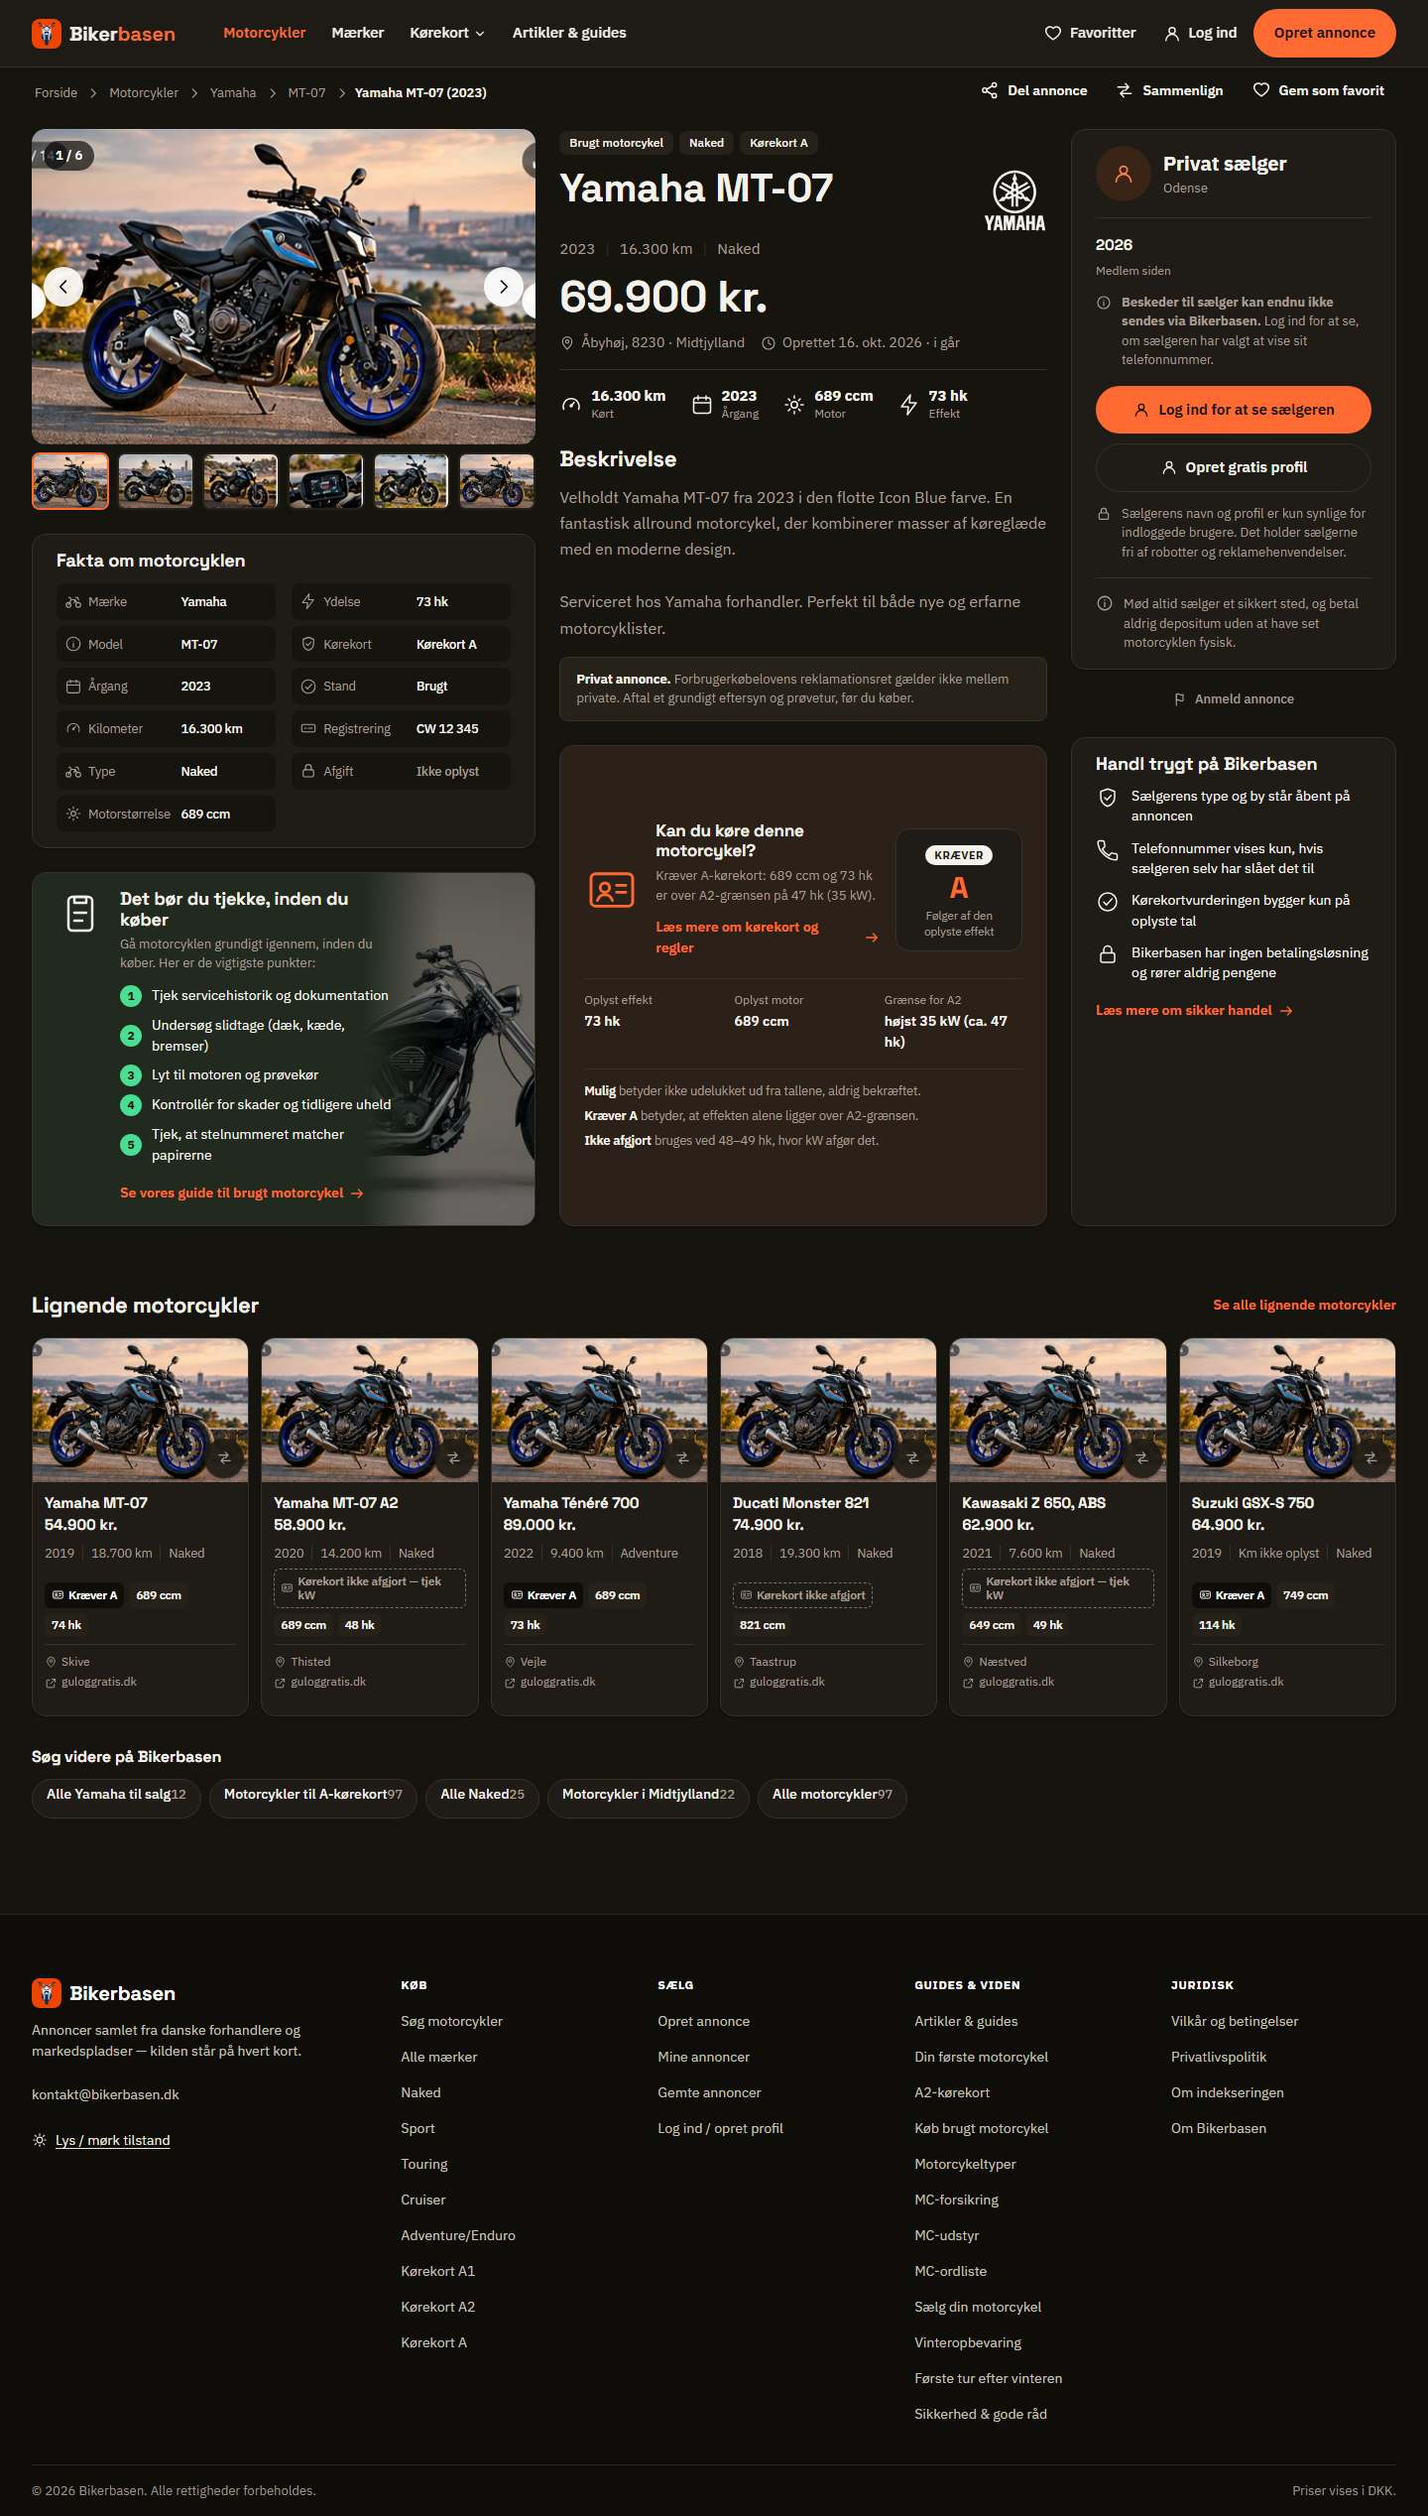
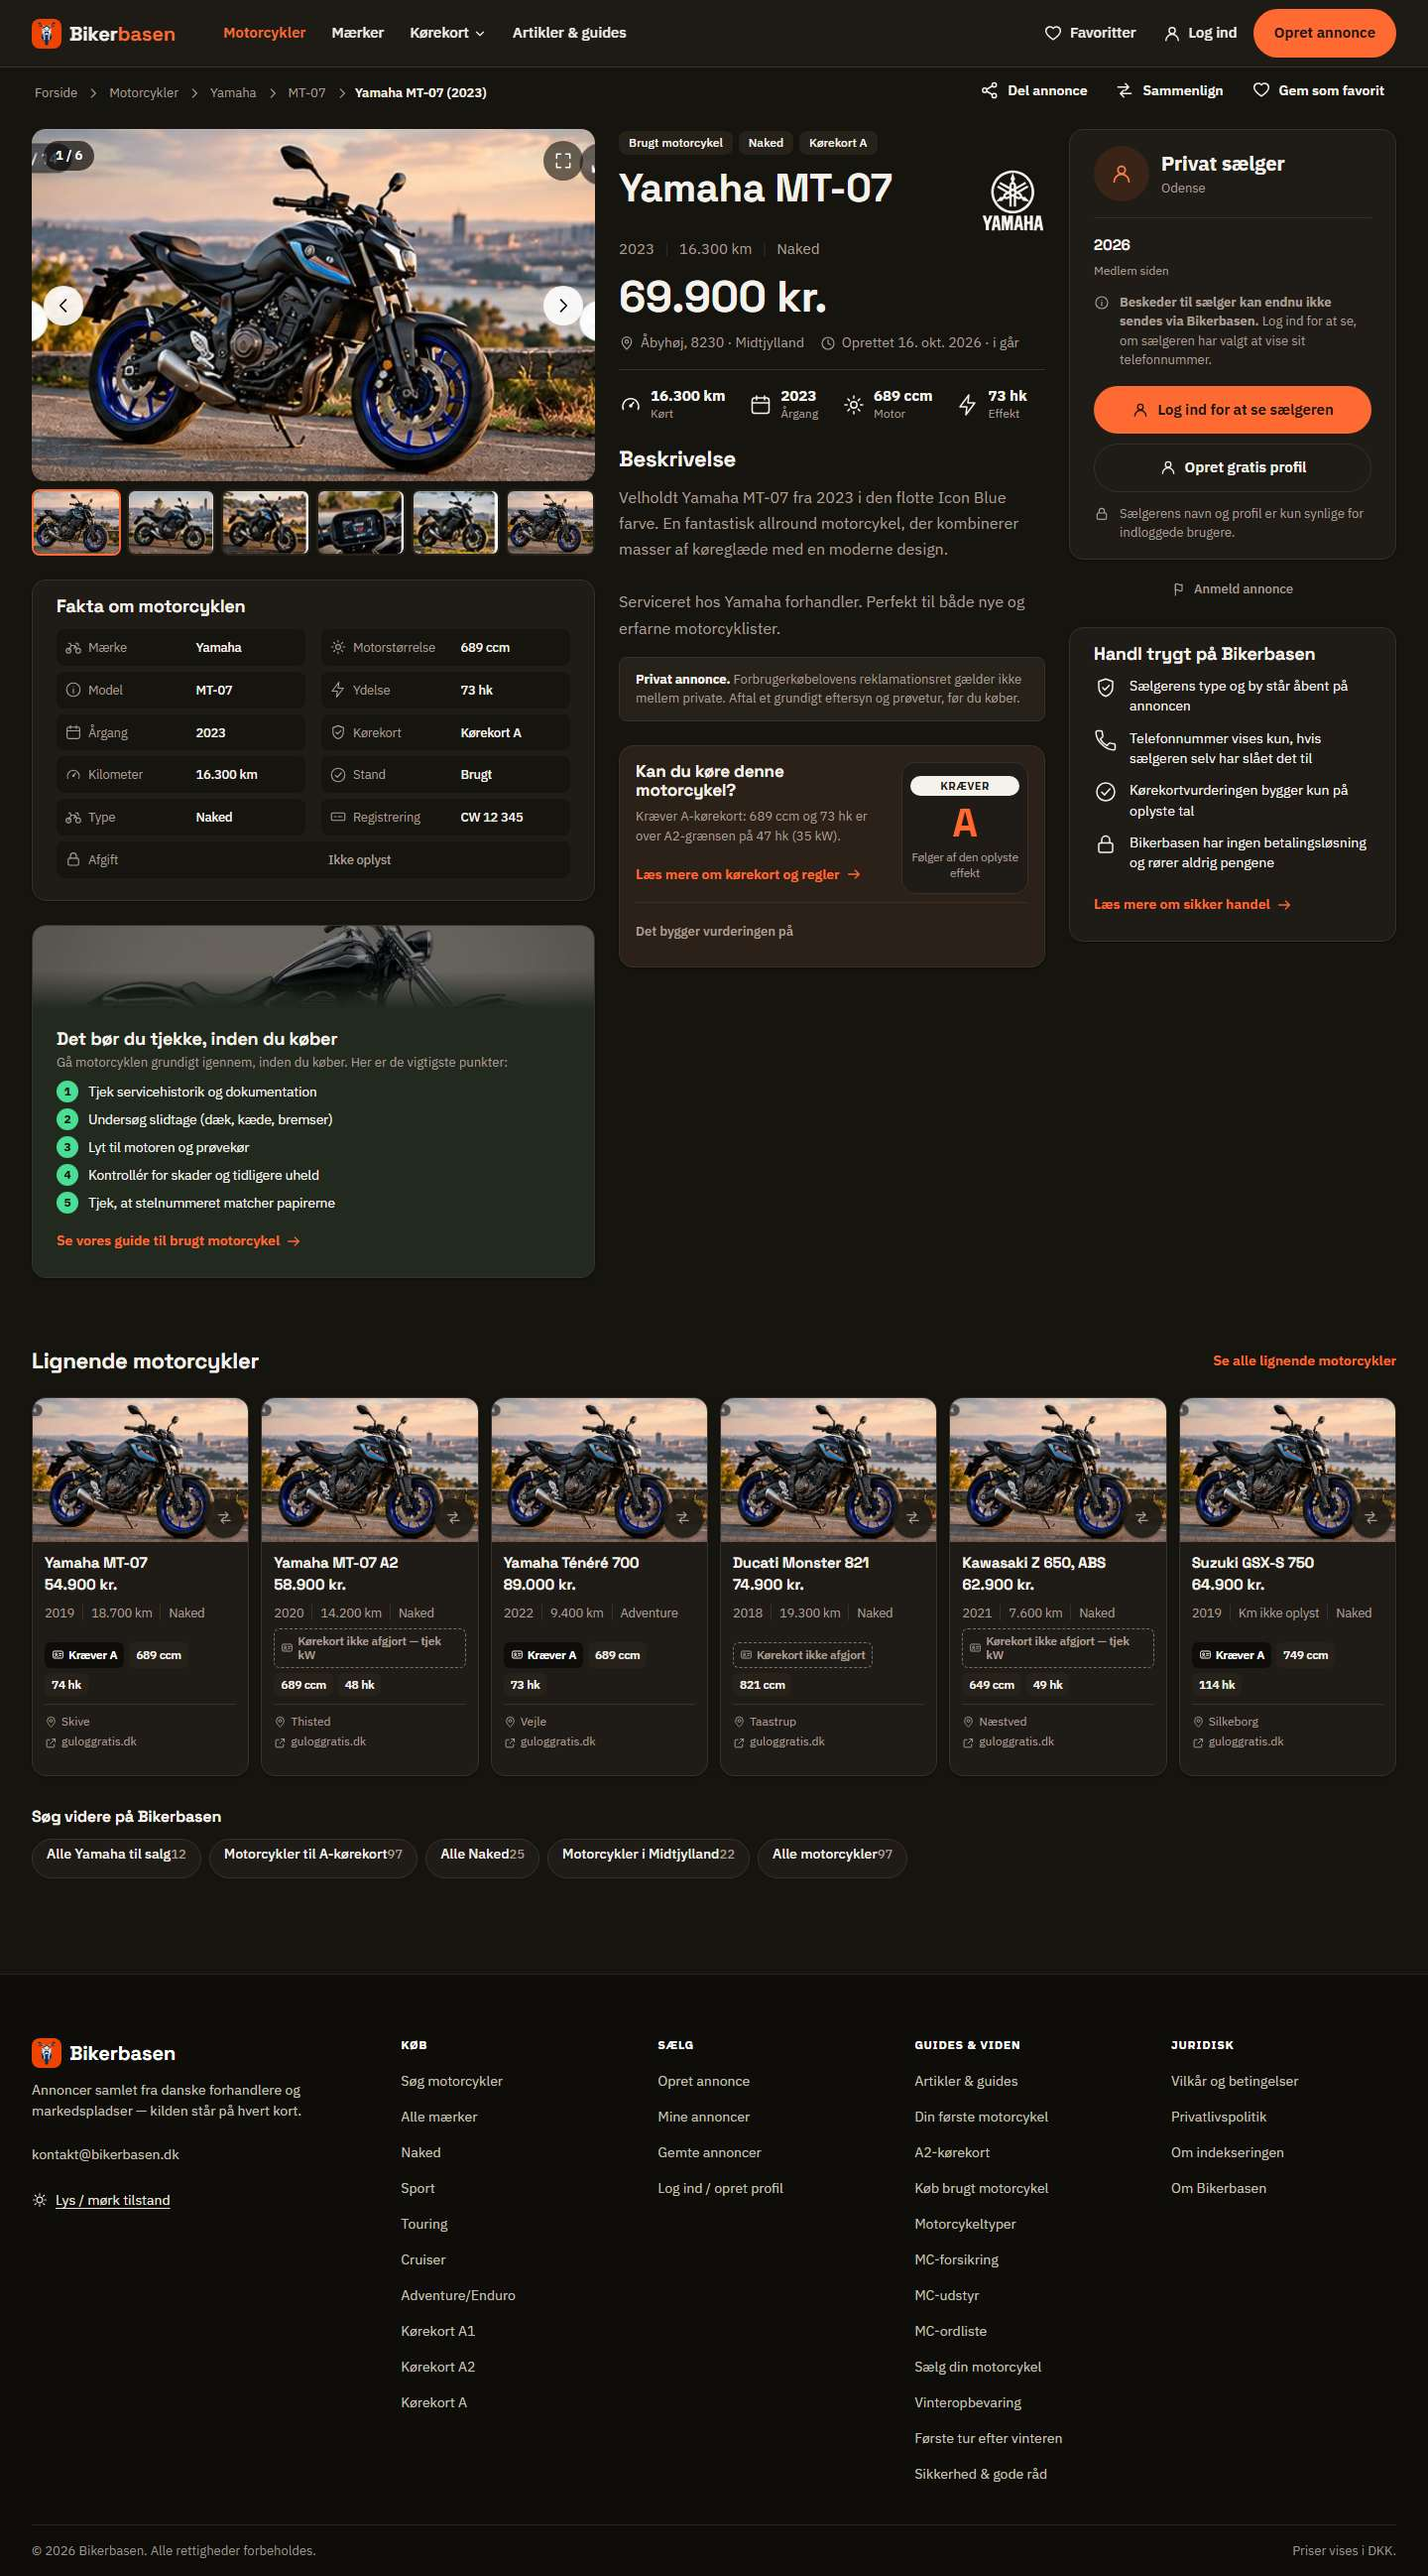
docs: agent3-annonce runde 2 (kriterier, målinger, side-om-side, score)

diff --git a/docs/review/gauntlet/visual/agent3-annonce.md b/docs/review/gauntlet/visual/agent3-annonce.md
@@ -1,47 +1,54 @@
 # Agent 3 — Annoncedetaljer og opret-flow (Visual Fidelity Gauntlet)
 
-Branch `gauntlet/w14-annonce` (fra fefe1570). Mål: `Annonce.png` (Yamaha MT-07) og `Opret annonce.png`. Billeder i `agent3-annonce/`.
+Branch `gauntlet/w14-annonce` (fra fefe1570). Mål: `Annonce.png` (Yamaha MT-07) og `Opret annonce.png`. Billeder i `agent3-annonce/` (JPEG, samlet ca. 4,9 MB).
 Testfotos i målingerne er udsnit af mockuppens eget motorcykelfoto (kun lokalt, aldrig i repoet), fordi mockens fotos ellers er flade farver. De indeholder
-mockuppens indbagte "1/14"-mærke og pile i hjørnerne; det er et testartefakt, ikke et fejl i siden.
+mockuppens indbagte "1/14"-mærke og pile i hjørnerne; det er et testartefakt, ikke en fejl i siden.
 
-## Acceptkriterier (skrevet før koden)
-- A1 Galleriets hovedbillede fylder hele sin boks (ingen grå stribe under fotoet): billedhøjde = boxhøjde ±1 px ved 1440.
-- A2 Tre kolonner (galleri+fakta | titel/pris/beskrivelse/kørekort | sælger/tryghed) har bundkanter, der flugter (≤ 2 px) for egen annonce med 5 og 0 fotos.
-- A3 Kørekortkortet står i midterkolonnen (som i billedet) med badgen til højre for teksten ved ≥ 1180 px, og viser kun oplyste tal og offentlige grænser (A2: 35 kW ≈ 47 hk). "Mulig" aldrig "bekræftet".
-- A4 Faktatabellen er to-kolonne ved kolonnebredden i billedet (≈ 510 px).
-- A5 Opret, billedtrin: dropzone og miniaturer i samme række (som billedet), miniaturer ≥ 100 px, tips som bånd, ingen overflow.
-- A6 Ingen dubletter/tab af elementer ved resize 1440→1024→768→390→1440; 0 vandret overflow ved 320/390/768/1024/1440 lys+mørk.
-- A7 CLS < 0,05 (`smoke-browser --cls 0.05 --strikt`), SEO uændret (meta/JSON-LD/canonical ikke rørt), ingen opdigtet data.
-Bevis: `js/w14-annonce.test.js` (6 browsertests mod lokal mock), `smoke-browser`, `w9-saelger.test.js` (33 grønne).
+## Acceptkriterier (skrevet før koden; runde 2 efter Critic AFVIS 6/10 + 5/10 tilføjer A8–A12)
+- A1 Galleriets hovedbillede fylder hele sin boks: billedhøjde = boxhøjde ±1 px ved 1440.
+- A2 (omskrevet i runde 2) INGEN strækning: intet kort har > 40 px tomt rum under sit sidste indholdselement ved 1440 (egen med 5 og 0 fotos). Kolonnerne må ende ujævnt; hvide felter i sidens bund er ikke et kort med tomt rum.
+- A3 Kørekortkortet står i midterkolonnen, lavt (≤ 240 px), med stor badge til højre for teksten ved ≥ 1180 px; grundlag/legende sammenfoldet; kun oplyste tal og offentlige grænser (A2: 35 kW ≈ 47 hk), "Mulig" aldrig "bekræftet".
+- A4 Faktatabellen: to lige kolonner, "Ikke oplyst" sidst, ulige antal giver en sidste række i fuld bredde (ingen enlig halv række).
+- A5 Opret: billedsektionen har dropzone og miniaturer (≥ 100 px) i samme række, tips som bånd, ingen overflow.
+- A6 Ingen dubletter/tab af elementer ved resize 1440→1024→768→390→1440; 0 vandret overflow 320/390/768/1024/1440 lys+mørk.
+- A7 CLS < 0,05 (`smoke-browser --cls 0.05 --strikt`) på alle `annonce*.html` og `opret-annonce` ved 320–1440; SEO uændret; ingen opdigtet data.
+- A8 "Det bør du tjekke" i sidekolonnen under "Handl trygt" (standard), brede kort, foto som bånd over teksten, aldrig under den.
+- A9 Galleri: fuldskærmsknap og lightbox (Esc/pile, fokus tilbage) hvor der er egne fotos; "+N"-tile ved > 6 fotos.
+- A10 Opret: sektionsrækkefølge som billedet (1 Detaljer, 2 Billeder, 3 Beskrivelse og pris) på ÉN side, 4 trin i bjælken (Detaljer, Billeder, Beskrivelse & pris, Gennemse), fire kolonner i første feltrække.
+- A11 Login-gate bevares uden tab: udlogget ser en login-port i stedet for dropzonen (billeder overlever ikke en login-omvej), kladden gemmes og man lander ved billederne efter login.
+- A12 Tap-mål ≥ 40 px og kontrast ≥ 4,5:1 (målt med canvas-afledt farve, også på color-mix-flader) på annoncesiden, 320–1440 lys+mørk.
+Bevis: `js/w14-annonce.test.js` (9 browsertests), `js/w9-saelger.test.js` (33), smoke, egne målescripts (kontrast/tap).
 
-## Afvigelsesliste (prioriteret, set selv i billederne)
-1. Manglende moduler: kørekortmodulet var tyndt (kun tekst + badge). Billedet har ikon, forklaring, A2-boks. — LUKKET: grundlag (oplyst effekt/motor/A2-grænse) og læsevejledning til badgen.
-2. Forkert layout: kørekortkortet landede tilfældigt i en smal kolonne med badge under teksten; midterkolonnen smallere end billedets. — LUKKET: kortet fast i midten, badge til højre, kolonneforhold 1,55/1,5/1.
-3. Billedbrug: galleriets billede dækkede kun ca. 87 % af boksen (grå stribe, fejl i `#gallery-main-img`). — LUKKET.
-4. Panelopbygning: faktatabellen faldt til én kolonne ved 510 px (container-grænse 460 px). — LUKKET (400 px).
-5. Opret: billedtrinnet var en tom side med små miniaturer i en klemt række og tre løse hint-linjer; billedet har dropzone + miniaturer i én række og grøn tips-boks. — LUKKET (række + tipsbånd).
-6. Opret: 4 trin og billeder som eget trin (billedet: 5 trin, billeder midt på siden). — IKKE LUKKET, se nedenfor.
-7. Typografi/detaljer: forhåndsvisning af "Din annonce" har ikke ikonrække/karrusel som billedet. — IKKE LUKKET (delt kortkomponent er Agent 2's).
+## Afvigelsesliste (prioriteret, fra egne observationer og Critics)
+1. Moduler: tyndt kørekortmodul → LUKKET (bred flade, stor badge, sammenfoldet grundlag + legende). Galleri uden fuldskærm → LUKKET (knap + lightbox).
+2. Layout: kort strakt til 490 px med 200 px tomt rum (align-stretch) → LUKKET (strækning fjernet, fast komposition: kørekort i midten, "Handl trygt" + "Det bør du tjekke" i sidekolonnen; for høj sidekolonne (lange kildetekster) flyttes tjek til venstre hvis det sparer ≥ 80 px højdeforskel).
+3. Hierarki/billedbrug: galleribillede dækkede 87 % af boksen (fejl) → LUKKET.
+4. Panelopbygning: faktatabel med enlig række og én kolonne ved 510 px → LUKKET. "Det bør du tjekke" klemt, tekst over fotoflade → LUKKET (foto som bånd). Sælgerpanel for tungt udlogget → delvist (to noter beholdt af tests, tredje "Mød altid sælger…" fjernet udlogget).
+5. Opret: billeder som eget trin efter pris, to trin-sider → LUKKET (billeder = sektion 2 på samme side, review = trin 4); første række 4 felter; tips som bånd; hero lavere; skillelinje før sektion 3.
+6. CLS 0,298 på `annonce-harley-davidson-flhx-2007-541ad405.html` ved 1024 mørk → LUKKET. Årsag: brødkrummen brækkede over to linjer i den forrenderede side og én linje efter hydrering (fejltilstand i smoke, hvor id'et ikke findes i fixtures); nu `nowrap` + ellipsis ≥ 900 px, og højden låses, når en fejltilstand erstatter siden.
+7. Typografi/detaljer: tap-mål (32 px-links, miniaturer 43×32) og lav kontrast → LUKKET/målt rent.
+8. Mikrointeraktion: lightbox tilføjet; favorit/sammenlign/kilde-link/telefon-reveal testet (telefon: nummer via RPC; uden samtykke ærlig afvisning).
 
-## Lukket i denne runde
-Se punkt 1–5. Commits: `annonce: galleriets billede fylder boksen …`, `opret: billedtrin …`, `annonce: legende skjult på mobil …`.
+## Tilbageværende — ligner ikke endnu (ærligt)
+- Sælgerpanel udlogget er stadig højere end billedets (ingen avatar/stjerner/svartid/"Ring op"/"Send besked"/"autoriseret": må ikke opdigtes eller er ikke bygget). Derfor ender sidekolonnen ofte 150–300 px under de andre, og bunden af venstre/midterkolonne står hvid.
+- Beskrivelse uden grønne check-punkter for eksterne annoncer (ingen data); egne får dem kun når felterne er udfyldt.
+- Ingen finansieringsforslag, "+10 billeder", forhandlerlogo, kort-link (ingen data); eksterne har ét thumbnail uden fuldskærm.
+- Opret: ingen titelfelt (titlen udledes af mærke/model/årgang), ingen B/I-værktøjslinje, ingen model-dropdown, intet rytterfoto i hero (findes ikke i repoet), 4 trin mod billedets 5 ("Sælgeroplysninger" findes ikke som valg), ingen "Vis eksempel på fuld annonce" og ingen galleripile i forhåndsvisningen (delt kortkomponent, Agent 2).
+- Opret er lidt mindre kompakt end billedet (feltrækkerne er højere, trin 1 har 3 felt-rækker + fold).
+- Udlogget sælger kan ikke vælge billeder før login (bevidst, se A11); i billedet ligger upload frit.
+- Forhåndsvisningens første række i fejltilstand viser toast over felter (kun kosmetik).
 
-## Tilbageværende — ligner ikke endnu (ærligt, med begrundelse)
-- Sælgerpanelet viser logget-ud-tilstand (login-gate, "Beskeder leveres ikke") i stedet for billedets avatar/stjerner/Ring op/Send besked: bevidst, intet af det findes eller må opdigtes. Panelet er derfor højere end i billedet, og søjlebalancen strækker det sidste kort i de kortere kolonner (tomt rum i bunden af ét kort).
-- Ingen "+10 billeder", finansieringsforslag, svartid, "autoriseret forhandler". Eksterne annoncer har ét thumbnail (CLAUDE.md regel 2).
-- "Det bør du tjekke" står ikke altid nederst til højre som i billedet; balanceringen placerer den, hvor søjlerne bliver ens høje.
-- Opret: billeder er stadig et selvstændigt trin efter "Oplysninger + pris/tekst" (login-gaten: valgte filer overlever ikke en omvej via login), 4 trin mod billedets 5, ingen titelfelt (titlen udledes), ingen B/I-værktøjslinje, ingen "Vælg model"-dropdown, intet rytterfoto i hero (findes ikke i repoet), ingen "Vis eksempel på fuld annonce".
-- Billedtrinnets hovedkort er kort sammenlignet med sidekolonnen (forhåndsvisning + Sælg trygt).
+## Målinger (runde 2)
+- `node --test js/w14-annonce.test.js`: 9/9. `js/w9-saelger.test.js`: 33/33 (5 tests opdateret bevidst: billeder er sektion 2 på samme side, trinnavne, ét tilbage-trin, login-port). `js/w9-marketplace-r2.test.js` opdateret bevidst (ingen strækning).
+- `smoke-browser --sider "annonce*.html,opret-annonce" --viewports 320,390,768,1024,1440 --cls 0.05 --strikt`: 40 målinger, 0 fejl, 0 advarsler.
+- Kontrast/tap (`annonce` egen + ekstern × 320/390/768/1024/1440 × lys/mørk, 20 sider): 0 fund under 4,5:1 (3:1 for stor tekst), 0 tap-mål < 40 px efter rettelse.
+- `kritisk-gen` + `scripts/w12-kritisk.test.js`: 18/18. `npm run gate` (uden build): node --check, hele `npm test`, synk-header, seo-audit, sitemap, døde links, udgiv = OK. Trin 7 rød, til Orchestratoren tilføjer `js/w14-annonce.test.js` til package.json "test".
 
-## Målinger
-- `node --test js/w14-annonce.test.js`: 6/6. `js/w9-saelger.test.js`: 33/33. `scripts/w12-kritisk.test.js`: 18/18 efter `kritisk-gen`.
-- `smoke-browser --sider annonce,opret-annonce --viewports 390,768,1440 --cls 0.05 --strikt`: 12 målinger, 0 fejl, 0 advarsler.
+## Billeder (agent3-annonce/)
+reference-annonce/opret; foer-annonce 1440/390, foer-opret; efter-annonce 1440/768/390 lys og mørk; efter-ekstern (48 hk, lys; med foto, mørk); efter-opret 1440 lys/mørk, 768, 390, gennemse og fejl; side-om-side (mockup | efter) pr. nøglesektion: sbs-annonce-oeverst/nederst, sbs-opret-oeverst/nederst.
+
+## Ærlig score mod mockuppen (selvvurdering, ikke godkendelse)
+Annonce ca. 7/10, opret ca. 6,5/10. Komposition og sektionsrækkefølge følger billederne nu; den største rest er sælgerpanelet og at kolonnerne ender ujævnt.
 
 ## Nye testfiler (package.json er Orchestratorens)
 `js/w14-annonce.test.js`.
-
-## Gate
-`npm run gate` (uden build): node --check OK, seo-audit OK, sitemap OK, døde links OK, udgiv OK. `npm test`: én rød i en kørsel (`js/w10-fejl.test.js`, CLS 0,084 på `model-honda-nx-500.html` 390 — en mærke/modelside udenfor mine filer, opstod mens jeg kørte Chromium parallelt; grøn 3/3 ved isoleret genkørsel = flaky). Trin 7 er rød, til Orchestratoren tilføjer `js/w14-annonce.test.js` til package.json "test".
-
-## Billeder (agent3-annonce/, JPEG q62, samlet ca. 3 MB)
-reference-annonce/opret, foer-/efter-annonce 1440 og 390, efter lys/mørk, ekstern 48 hk, foer-/efter-opret (trin 1, billedtrin 1440, billedtrin 390), sbs-annonce og sbs-opret (mockup | efter, øverste del).
